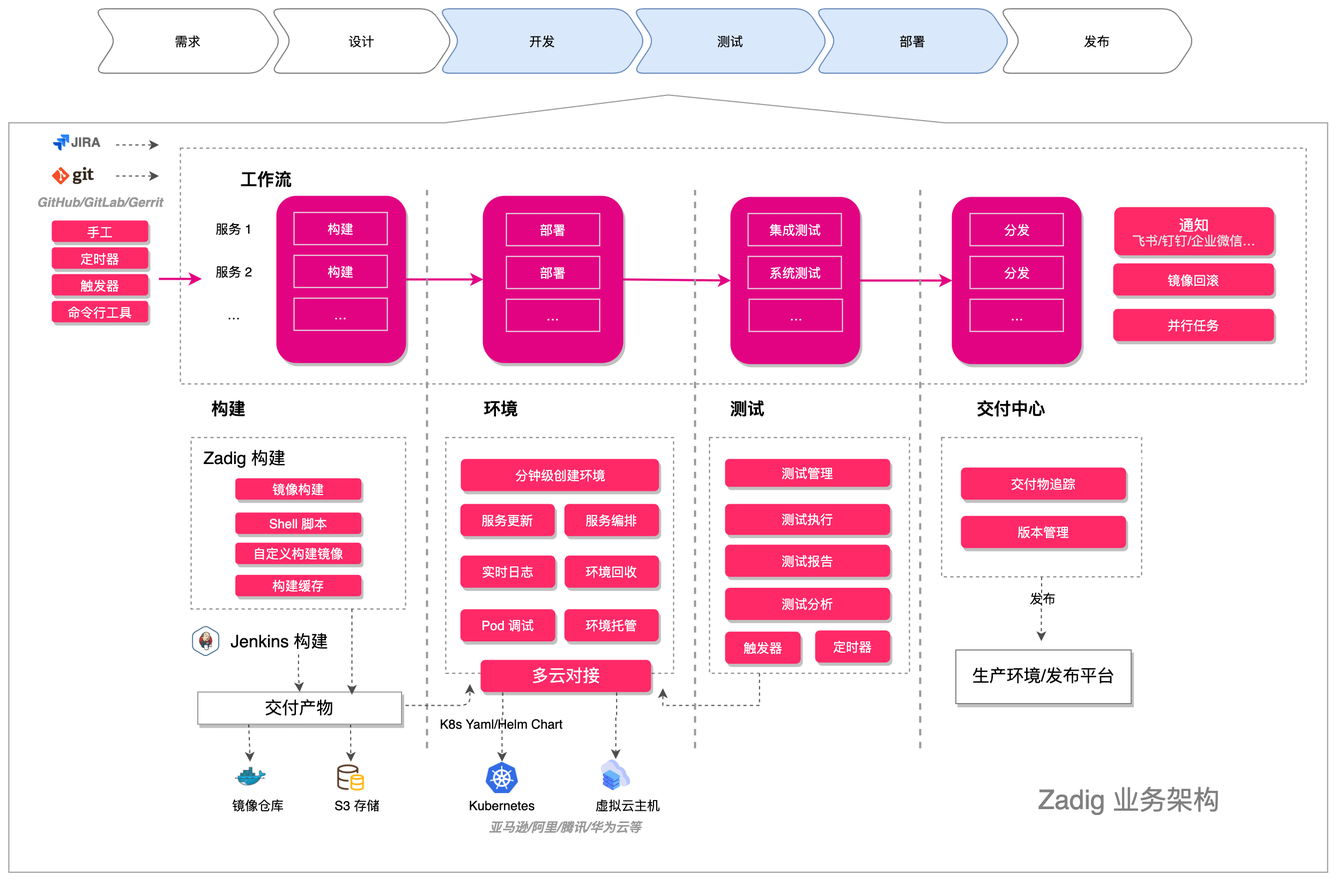
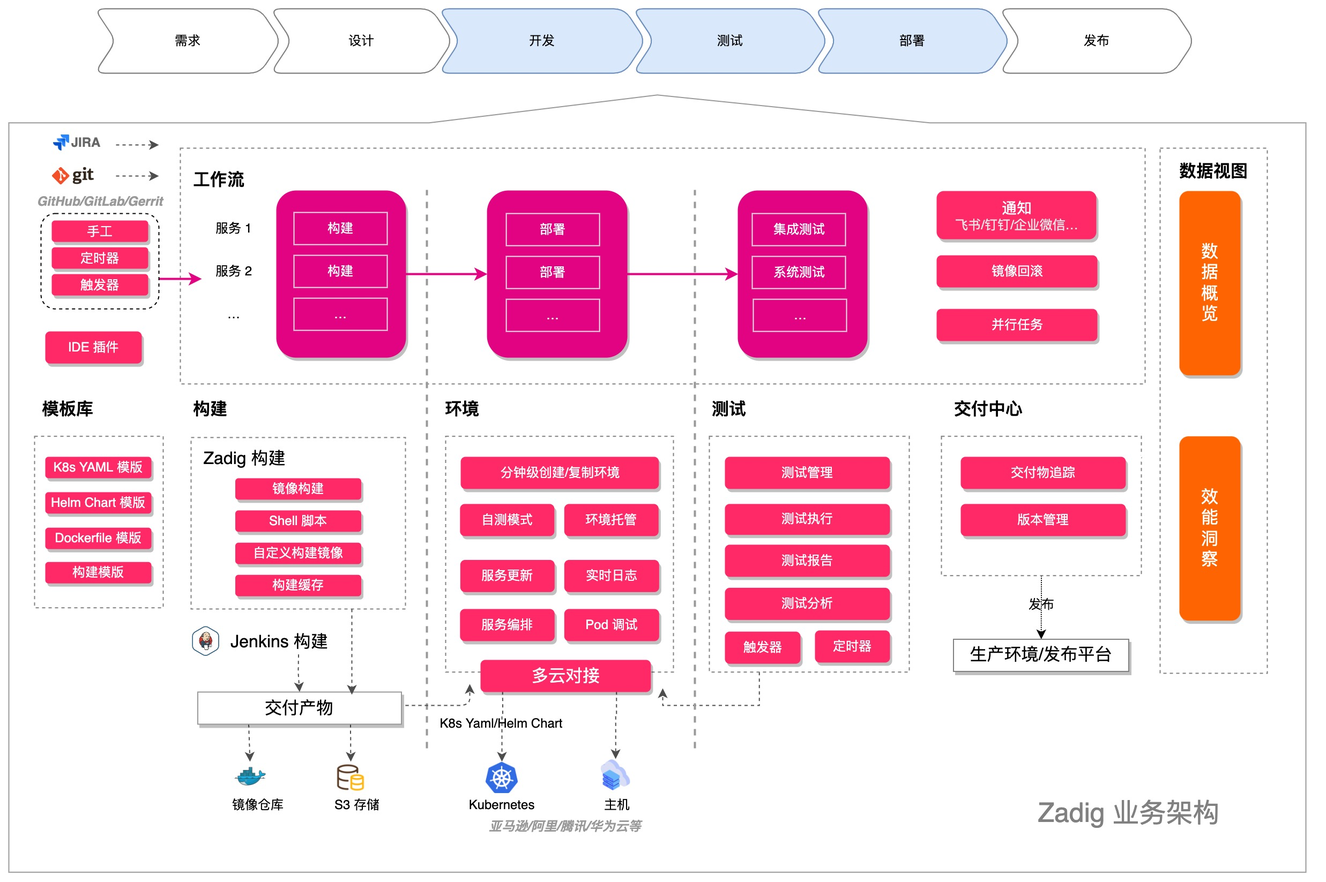
update Zadig product description & architecture image

diff --git a/v1.10.0/01.快速入门/00.introduction.md b/v1.10.0/01.快速入门/00.introduction.md
@@ -4,32 +4,35 @@ date: 2021-08-26 16:24:00
 permalink: /v1.10.0/quick-start/introduction/
 ---
 
-Zadig 是 KodeRover 公司基于 Kubernetes 自主设计、研发的开源分布式持续交付 (Continuous Delivery) 产品，为开发者提供云原生运行环境，支持开发者本地联调、微服务并行构建和部署、集成测试等。Zadig 内置了面向 Kubernetes、Helm、云主机/物理机、大体量微服务等复杂业务场景的最佳实践，为工程师一键生成自动化工作流 (workflow)。Zadig 不改变现有习惯和流程，几乎兼容所有软件架构，无缝集成 GitHub/GitLab、Jenkins、多家云厂商等，运维成本极低。[接入准备](/v1.10.0/quick-start/prepare/)
+Zadig 是 KodeRover 公司基于 Kubernetes 自主设计、研发的开源分布式持续交付 (Continuous Delivery) 产品，具备灵活易用的高并发工作流、面向开发者的云原生环境、高效协同的测试管理、强大免运维的模板库、客观精确的效能洞察等重要特性，为工程师提供统一的协作平面。Zadig 内置了 K8s YAML、Helm Chart、主机等复杂场景最佳实践，适用大规模微服务、高频高质量交付等场景。[接入准备](/v1.10.0/quick-start/prepare/)
 
 我们的目标是通过云原生技术的运用和工程产品赋能，打造极致、高效、愉悦的开发者工作体验，让工程师成为企业创新的核心引擎。
 
-## 业务架构介绍
+## 业务架构
 
 ![业务架构图](./_images/Zadig-Business-Architecture-zh.jpg)
 
 ## 核心能力
 
-- **高并发的工作流**
+- **灵活易用的高并发工作流**
 
-  系统经过简单配置，即可自动生成高并发工作流，高效执行构建、部署、测试等任务。这一设计解决了微服务架构下带来的多服务交付效率低下的问题。
+  简单配置，可自动生成高并发工作流，多个微服务可并行构建、并行部署、并行测试，大大提升代码验证效率。自定义的工作流步骤，配合人工审核，灵活且可控的保障业务交付质量。
 
-- **以服务为核心的环境**
+- **面向开发者的云原生环境**
 
-  只需一套服务配置，即可在几分钟创建多套数据隔离的测试环境，为开发者日常调试、集成测试验证、产品演示提供强力支撑。现有环境无需迁移，一键托管即可轻松浏览、调试环境中的所有服务。
+  分钟级创建或复制一套完整的隔离环境，应对频繁的业务变更和产品迭代。基于全量基准环境，快速为开发者提供一套独立的自测环境。一键托管集群资源即可轻松调试已有服务，验证业务代码。
 
+- **高效协同的测试管理**
 
-- **无侵入的自动化测试**
+  便捷对接 Jmeter、Pytest 等主流测试框架，跨项目管理和沉淀 UI、API、E2E 测试用例资产。通过工作流，向开发者提供前置测试验证能力。通过持续测试和质量分析，充分释放测试价值。
 
-  便捷对接已有的自动化测试框架，通过 GitHub/GitLab WebHook 自动构建、部署、测试。通过办公 IM 机器人为开发者提供第一时间质量反馈，有效实现“测试左移”，充分体现测试价值。
+- **强大免运维的模板库**
 
-- **开发本地联调 CLI**
+  跨项目共享 K8s YAML 模版、Helm Chart 模版，实现配置的统一化管理。基于一套模板可创建数百微服务，开发工程师少量配置可自助使用，大幅降低运维管理负担。
 
-  开发可以本地编辑代码，一键构建、部署到联调环境，无需处理复杂且繁琐的工作流程，省出宝贵时间去创造更多产品价值。
+- **客观精确的效能洞察**
+
+  全面了解系统运行状态，包括集群、项目、环境、工作流，关键过程通过率等数据概览。提供项目维度的构建、测试、部署等客观的效能度量数据，精准分析研发效能短板，促进稳步提升。
 
 ## 为谁服务
 

diff --git a/v1.11.0/01.快速入门/00.introduction.md b/v1.11.0/01.快速入门/00.introduction.md
@@ -4,32 +4,35 @@ date: 2021-08-26 16:24:00
 permalink: /v1.11.0/quick-start/introduction/
 ---
 
-Zadig 是 KodeRover 公司基于 Kubernetes 自主设计、研发的开源分布式持续交付 (Continuous Delivery) 产品，为开发者提供云原生运行环境，支持开发者本地联调、微服务并行构建和部署、集成测试等。Zadig 内置了面向 Kubernetes、Helm、云主机/物理机、大体量微服务等复杂业务场景的最佳实践，为工程师一键生成自动化工作流 (workflow)。Zadig 不改变现有习惯和流程，几乎兼容所有软件架构，无缝集成 GitHub/GitLab、Jenkins、多家云厂商等，运维成本极低。[接入准备](/v1.11.0/quick-start/prepare/)
+Zadig 是 KodeRover 公司基于 Kubernetes 自主设计、研发的开源分布式持续交付 (Continuous Delivery) 产品，具备灵活易用的高并发工作流、面向开发者的云原生环境、高效协同的测试管理、强大免运维的模板库、客观精确的效能洞察等重要特性，为工程师提供统一的协作平面。Zadig 内置了 K8s YAML、Helm Chart、主机等复杂场景最佳实践，适用大规模微服务、高频高质量交付等场景。[接入准备](/v1.11.0/quick-start/prepare/)
 
 我们的目标是通过云原生技术的运用和工程产品赋能，打造极致、高效、愉悦的开发者工作体验，让工程师成为企业创新的核心引擎。
 
-## 业务架构介绍
+## 业务架构
 
 ![业务架构图](./_images/Zadig-Business-Architecture-zh.jpg)
 
 ## 核心能力
 
-- **高并发的工作流**
+- **灵活易用的高并发工作流**
 
-  系统经过简单配置，即可自动生成高并发工作流，高效执行构建、部署、测试等任务。这一设计解决了微服务架构下带来的多服务交付效率低下的问题。
+  简单配置，可自动生成高并发工作流，多个微服务可并行构建、并行部署、并行测试，大大提升代码验证效率。自定义的工作流步骤，配合人工审核，灵活且可控的保障业务交付质量。
 
-- **以服务为核心的环境**
+- **面向开发者的云原生环境**
 
-  只需一套服务配置，即可在几分钟创建多套数据隔离的测试环境，为开发者日常调试、集成测试验证、产品演示提供强力支撑。现有环境无需迁移，一键托管即可轻松浏览、调试环境中的所有服务。
+  分钟级创建或复制一套完整的隔离环境，应对频繁的业务变更和产品迭代。基于全量基准环境，快速为开发者提供一套独立的自测环境。一键托管集群资源即可轻松调试已有服务，验证业务代码。
 
+- **高效协同的测试管理**
 
-- **无侵入的自动化测试**
+  便捷对接 Jmeter、Pytest 等主流测试框架，跨项目管理和沉淀 UI、API、E2E 测试用例资产。通过工作流，向开发者提供前置测试验证能力。通过持续测试和质量分析，充分释放测试价值。
 
-  便捷对接已有的自动化测试框架，通过 GitHub/GitLab WebHook 自动构建、部署、测试。通过办公 IM 机器人为开发者提供第一时间质量反馈，有效实现“测试左移”，充分体现测试价值。
+- **强大免运维的模板库**
 
-- **开发本地联调 CLI**
+  跨项目共享 K8s YAML 模版、Helm Chart 模版，实现配置的统一化管理。基于一套模板可创建数百微服务，开发工程师少量配置可自助使用，大幅降低运维管理负担。
 
-  开发可以本地编辑代码，一键构建、部署到联调环境，无需处理复杂且繁琐的工作流程，省出宝贵时间去创造更多产品价值。
+- **客观精确的效能洞察**
+
+  全面了解系统运行状态，包括集群、项目、环境、工作流，关键过程通过率等数据概览。提供项目维度的构建、测试、部署等客观的效能度量数据，精准分析研发效能短板，促进稳步提升。
 
 ## 为谁服务
 

diff --git a/v1.7.0/01.快速入门/00.introduction.md b/v1.7.0/01.快速入门/00.introduction.md
@@ -4,7 +4,7 @@ date: 2021-08-26 16:24:00
 permalink: /v1.7.0/quick-start/introduction/
 ---
 
-Zadig 是 KodeRover 公司基于 Kubernetes 自主设计、研发的开源分布式持续交付 (Continuous Delivery) 产品，为开发者提供云原生运行环境，支持开发者本地联调、微服务并行构建和部署、集成测试等。Zadig 内置了面向 Kubernetes、Helm、云主机/物理机、大体量微服务等复杂业务场景的最佳实践，为工程师一键生成自动化工作流 (workflow)。Zadig 不改变现有习惯和流程，几乎兼容所有软件架构，无缝集成 GitHub/GitLab、Jenkins、多家云厂商等，运维成本极低。[接入准备](/v1.7.0/quick-start/prepare/)
+Zadig 是 KodeRover 公司基于 Kubernetes 自主设计、研发的开源分布式持续交付 (Continuous Delivery) 产品，具备灵活易用的高并发工作流、面向开发者的云原生环境、高效协同的测试管理、强大免运维的模板库、客观精确的效能洞察等重要特性，为工程师提供统一的协作平面。Zadig 内置了 K8s YAML、Helm Chart、主机等复杂场景最佳实践，适用大规模微服务、高频高质量交付等场景。[接入准备](/v1.7.0/quick-start/prepare/)
 
 我们的目标是通过云原生技术的运用和工程产品赋能，打造极致、高效、愉悦的开发者工作体验，让工程师成为企业创新的核心引擎。
 
@@ -14,22 +14,25 @@ Zadig 是 KodeRover 公司基于 Kubernetes 自主设计、研发的开源分布
 
 ## 核心能力
 
-- **高并发的工作流**
+- **灵活易用的高并发工作流**
 
-  系统经过简单配置，即可自动生成高并发工作流，高效执行构建、部署、测试等任务。这一设计解决了微服务架构下带来的多服务交付效率低下的问题。
+  简单配置，可自动生成高并发工作流，多个微服务可并行构建、并行部署、并行测试，大大提升代码验证效率。自定义的工作流步骤，配合人工审核，灵活且可控的保障业务交付质量。
 
-- **以服务为核心的集成环境**
+- **面向开发者的云原生环境**
 
-  只需一套服务配置，即可在几分钟创建多套数据隔离的测试环境，为开发者日常调试、集成测试验证、产品演示提供强力支撑。现有环境无需迁移，一键托管即可轻松浏览、调试环境中的所有服务。
+  分钟级创建或复制一套完整的隔离环境，应对频繁的业务变更和产品迭代。基于全量基准环境，快速为开发者提供一套独立的自测环境。一键托管集群资源即可轻松调试已有服务，验证业务代码。
 
+- **高效协同的测试管理**
 
-- **无侵入的自动化测试**
+  便捷对接 Jmeter、Pytest 等主流测试框架，跨项目管理和沉淀 UI、API、E2E 测试用例资产。通过工作流，向开发者提供前置测试验证能力。通过持续测试和质量分析，充分释放测试价值。
 
-  便捷对接已有的自动化测试框架，通过 GitHub/GitLab WebHook 自动构建、部署、测试。通过办公 IM 机器人为开发者提供第一时间质量反馈，有效实现“测试左移”，充分体现测试价值。
+- **强大免运维的模板库**
 
-- **开发本地联调 CLI**
+  跨项目共享 K8s YAML 模版、Helm Chart 模版，实现配置的统一化管理。基于一套模板可创建数百微服务，开发工程师少量配置可自助使用，大幅降低运维管理负担。
 
-  开发可以本地编辑代码，一键构建、部署到联调环境，无需处理复杂且繁琐的工作流程，省出宝贵时间去创造更多产品价值。
+- **客观精确的效能洞察**
+
+  全面了解系统运行状态，包括集群、项目、环境、工作流，关键过程通过率等数据概览。提供项目维度的构建、测试、部署等客观的效能度量数据，精准分析研发效能短板，促进稳步提升。
 
 ## 为谁服务
 

diff --git a/v1.7.1/01.快速入门/00.introduction.md b/v1.7.1/01.快速入门/00.introduction.md
@@ -4,7 +4,7 @@ date: 2021-08-26 16:24:00
 permalink: /v1.7.1/quick-start/introduction/
 ---
 
-Zadig 是 KodeRover 公司基于 Kubernetes 自主设计、研发的开源分布式持续交付 (Continuous Delivery) 产品，为开发者提供云原生运行环境，支持开发者本地联调、微服务并行构建和部署、集成测试等。Zadig 内置了面向 Kubernetes、Helm、云主机/物理机、大体量微服务等复杂业务场景的最佳实践，为工程师一键生成自动化工作流 (workflow)。Zadig 不改变现有习惯和流程，几乎兼容所有软件架构，无缝集成 GitHub/GitLab、Jenkins、多家云厂商等，运维成本极低。[接入准备](/v1.7.1/quick-start/prepare/)
+Zadig 是 KodeRover 公司基于 Kubernetes 自主设计、研发的开源分布式持续交付 (Continuous Delivery) 产品，具备灵活易用的高并发工作流、面向开发者的云原生环境、高效协同的测试管理、强大免运维的模板库、客观精确的效能洞察等重要特性，为工程师提供统一的协作平面。Zadig 内置了 K8s YAML、Helm Chart、主机等复杂场景最佳实践，适用大规模微服务、高频高质量交付等场景。[接入准备](/v1.7.1/quick-start/prepare/)
 
 我们的目标是通过云原生技术的运用和工程产品赋能，打造极致、高效、愉悦的开发者工作体验，让工程师成为企业创新的核心引擎。
 
@@ -14,22 +14,25 @@ Zadig 是 KodeRover 公司基于 Kubernetes 自主设计、研发的开源分布
 
 ## 核心能力
 
-- **高并发的工作流**
+- **灵活易用的高并发工作流**
 
-  系统经过简单配置，即可自动生成高并发工作流，高效执行构建、部署、测试等任务。这一设计解决了微服务架构下带来的多服务交付效率低下的问题。
+  简单配置，可自动生成高并发工作流，多个微服务可并行构建、并行部署、并行测试，大大提升代码验证效率。自定义的工作流步骤，配合人工审核，灵活且可控的保障业务交付质量。
 
-- **以服务为核心的集成环境**
+- **面向开发者的云原生环境**
 
-  只需一套服务配置，即可在几分钟创建多套数据隔离的测试环境，为开发者日常调试、集成测试验证、产品演示提供强力支撑。现有环境无需迁移，一键托管即可轻松浏览、调试环境中的所有服务。
+  分钟级创建或复制一套完整的隔离环境，应对频繁的业务变更和产品迭代。基于全量基准环境，快速为开发者提供一套独立的自测环境。一键托管集群资源即可轻松调试已有服务，验证业务代码。
 
+- **高效协同的测试管理**
 
-- **无侵入的自动化测试**
+  便捷对接 Jmeter、Pytest 等主流测试框架，跨项目管理和沉淀 UI、API、E2E 测试用例资产。通过工作流，向开发者提供前置测试验证能力。通过持续测试和质量分析，充分释放测试价值。
 
-  便捷对接已有的自动化测试框架，通过 GitHub/GitLab WebHook 自动构建、部署、测试。通过办公 IM 机器人为开发者提供第一时间质量反馈，有效实现“测试左移”，充分体现测试价值。
+- **强大免运维的模板库**
 
-- **开发本地联调 CLI**
+  跨项目共享 K8s YAML 模版、Helm Chart 模版，实现配置的统一化管理。基于一套模板可创建数百微服务，开发工程师少量配置可自助使用，大幅降低运维管理负担。
 
-  开发可以本地编辑代码，一键构建、部署到联调环境，无需处理复杂且繁琐的工作流程，省出宝贵时间去创造更多产品价值。
+- **客观精确的效能洞察**
+
+  全面了解系统运行状态，包括集群、项目、环境、工作流，关键过程通过率等数据概览。提供项目维度的构建、测试、部署等客观的效能度量数据，精准分析研发效能短板，促进稳步提升。
 
 ## 为谁服务
 

diff --git a/v1.8.0/01.快速入门/00.introduction.md b/v1.8.0/01.快速入门/00.introduction.md
@@ -4,7 +4,7 @@ date: 2021-08-26 16:24:00
 permalink: /v1.8.0/quick-start/introduction/
 ---
 
-Zadig 是 KodeRover 公司基于 Kubernetes 自主设计、研发的开源分布式持续交付 (Continuous Delivery) 产品，为开发者提供云原生运行环境，支持开发者本地联调、微服务并行构建和部署、集成测试等。Zadig 内置了面向 Kubernetes、Helm、云主机/物理机、大体量微服务等复杂业务场景的最佳实践，为工程师一键生成自动化工作流 (workflow)。Zadig 不改变现有习惯和流程，几乎兼容所有软件架构，无缝集成 GitHub/GitLab、Jenkins、多家云厂商等，运维成本极低。[接入准备](/v1.8.0/quick-start/prepare/)
+Zadig 是 KodeRover 公司基于 Kubernetes 自主设计、研发的开源分布式持续交付 (Continuous Delivery) 产品，具备灵活易用的高并发工作流、面向开发者的云原生环境、高效协同的测试管理、强大免运维的模板库、客观精确的效能洞察等重要特性，为工程师提供统一的协作平面。Zadig 内置了 K8s YAML、Helm Chart、主机等复杂场景最佳实践，适用大规模微服务、高频高质量交付等场景。[接入准备](/v1.8.0/quick-start/prepare/)
 
 我们的目标是通过云原生技术的运用和工程产品赋能，打造极致、高效、愉悦的开发者工作体验，让工程师成为企业创新的核心引擎。
 
@@ -14,22 +14,25 @@ Zadig 是 KodeRover 公司基于 Kubernetes 自主设计、研发的开源分布
 
 ## 核心能力
 
-- **高并发的工作流**
+- **灵活易用的高并发工作流**
 
-  系统经过简单配置，即可自动生成高并发工作流，高效执行构建、部署、测试等任务。这一设计解决了微服务架构下带来的多服务交付效率低下的问题。
+  简单配置，可自动生成高并发工作流，多个微服务可并行构建、并行部署、并行测试，大大提升代码验证效率。自定义的工作流步骤，配合人工审核，灵活且可控的保障业务交付质量。
 
-- **以服务为核心的集成环境**
+- **面向开发者的云原生环境**
 
-  只需一套服务配置，即可在几分钟创建多套数据隔离的测试环境，为开发者日常调试、集成测试验证、产品演示提供强力支撑。现有环境无需迁移，一键托管即可轻松浏览、调试环境中的所有服务。
+  分钟级创建或复制一套完整的隔离环境，应对频繁的业务变更和产品迭代。基于全量基准环境，快速为开发者提供一套独立的自测环境。一键托管集群资源即可轻松调试已有服务，验证业务代码。
 
+- **高效协同的测试管理**
 
-- **无侵入的自动化测试**
+  便捷对接 Jmeter、Pytest 等主流测试框架，跨项目管理和沉淀 UI、API、E2E 测试用例资产。通过工作流，向开发者提供前置测试验证能力。通过持续测试和质量分析，充分释放测试价值。
 
-  便捷对接已有的自动化测试框架，通过 GitHub/GitLab WebHook 自动构建、部署、测试。通过办公 IM 机器人为开发者提供第一时间质量反馈，有效实现“测试左移”，充分体现测试价值。
+- **强大免运维的模板库**
 
-- **开发本地联调 CLI**
+  跨项目共享 K8s YAML 模版、Helm Chart 模版，实现配置的统一化管理。基于一套模板可创建数百微服务，开发工程师少量配置可自助使用，大幅降低运维管理负担。
 
-  开发可以本地编辑代码，一键构建、部署到联调环境，无需处理复杂且繁琐的工作流程，省出宝贵时间去创造更多产品价值。
+- **客观精确的效能洞察**
+
+  全面了解系统运行状态，包括集群、项目、环境、工作流，关键过程通过率等数据概览。提供项目维度的构建、测试、部署等客观的效能度量数据，精准分析研发效能短板，促进稳步提升。
 
 ## 为谁服务
 

diff --git a/v1.9.0/01.快速入门/00.introduction.md b/v1.9.0/01.快速入门/00.introduction.md
@@ -4,7 +4,7 @@ date: 2021-08-26 16:24:00
 permalink: /v1.9.0/quick-start/introduction/
 ---
 
-Zadig 是 KodeRover 公司基于 Kubernetes 自主设计、研发的开源分布式持续交付 (Continuous Delivery) 产品，为开发者提供云原生运行环境，支持开发者本地联调、微服务并行构建和部署、集成测试等。Zadig 内置了面向 Kubernetes、Helm、云主机/物理机、大体量微服务等复杂业务场景的最佳实践，为工程师一键生成自动化工作流 (workflow)。Zadig 不改变现有习惯和流程，几乎兼容所有软件架构，无缝集成 GitHub/GitLab、Jenkins、多家云厂商等，运维成本极低。[接入准备](/v1.9.0/quick-start/prepare/)
+Zadig 是 KodeRover 公司基于 Kubernetes 自主设计、研发的开源分布式持续交付 (Continuous Delivery) 产品，具备灵活易用的高并发工作流、面向开发者的云原生环境、高效协同的测试管理、强大免运维的模板库、客观精确的效能洞察等重要特性，为工程师提供统一的协作平面。Zadig 内置了 K8s YAML、Helm Chart、主机等复杂场景最佳实践，适用大规模微服务、高频高质量交付等场景。[接入准备](/v1.9.0/quick-start/prepare/)
 
 我们的目标是通过云原生技术的运用和工程产品赋能，打造极致、高效、愉悦的开发者工作体验，让工程师成为企业创新的核心引擎。
 
@@ -14,22 +14,25 @@ Zadig 是 KodeRover 公司基于 Kubernetes 自主设计、研发的开源分布
 
 ## 核心能力
 
-- **高并发的工作流**
+- **灵活易用的高并发工作流**
 
-  系统经过简单配置，即可自动生成高并发工作流，高效执行构建、部署、测试等任务。这一设计解决了微服务架构下带来的多服务交付效率低下的问题。
+  简单配置，可自动生成高并发工作流，多个微服务可并行构建、并行部署、并行测试，大大提升代码验证效率。自定义的工作流步骤，配合人工审核，灵活且可控的保障业务交付质量。
 
-- **以服务为核心的集成环境**
+- **面向开发者的云原生环境**
 
-  只需一套服务配置，即可在几分钟创建多套数据隔离的测试环境，为开发者日常调试、集成测试验证、产品演示提供强力支撑。现有环境无需迁移，一键托管即可轻松浏览、调试环境中的所有服务。
+  分钟级创建或复制一套完整的隔离环境，应对频繁的业务变更和产品迭代。基于全量基准环境，快速为开发者提供一套独立的自测环境。一键托管集群资源即可轻松调试已有服务，验证业务代码。
 
+- **高效协同的测试管理**
 
-- **无侵入的自动化测试**
+  便捷对接 Jmeter、Pytest 等主流测试框架，跨项目管理和沉淀 UI、API、E2E 测试用例资产。通过工作流，向开发者提供前置测试验证能力。通过持续测试和质量分析，充分释放测试价值。
 
-  便捷对接已有的自动化测试框架，通过 GitHub/GitLab WebHook 自动构建、部署、测试。通过办公 IM 机器人为开发者提供第一时间质量反馈，有效实现“测试左移”，充分体现测试价值。
+- **强大免运维的模板库**
 
-- **开发本地联调 CLI**
+  跨项目共享 K8s YAML 模版、Helm Chart 模版，实现配置的统一化管理。基于一套模板可创建数百微服务，开发工程师少量配置可自助使用，大幅降低运维管理负担。
 
-  开发可以本地编辑代码，一键构建、部署到联调环境，无需处理复杂且繁琐的工作流程，省出宝贵时间去创造更多产品价值。
+- **客观精确的效能洞察**
+
+  全面了解系统运行状态，包括集群、项目、环境、工作流，关键过程通过率等数据概览。提供项目维度的构建、测试、部署等客观的效能度量数据，精准分析研发效能短板，促进稳步提升。
 
 ## 为谁服务
 

diff --git a/v1.6.0/01.快速入门/00.introduction.md b/v1.6.0/01.快速入门/00.introduction.md
@@ -4,7 +4,7 @@ date: 2021-08-26 16:24:00
 permalink: /v1.6.0/quick-start/introduction/
 ---
 
-Zadig 是 KodeRover 公司基于 Kubernetes 自主设计、研发的开源分布式持续交付 (Continuous Delivery) 产品，为开发者提供云原生运行环境，支持开发者本地联调、微服务并行构建和部署、集成测试等。Zadig 内置了面向 Kubernetes、Helm、云主机/物理机、大体量微服务等复杂业务场景的最佳实践，为工程师一键生成自动化工作流 (workflow)。Zadig 不改变现有习惯和流程，几乎兼容所有软件架构，无缝集成 GitHub/GitLab、Jenkins、多家云厂商等，运维成本极低。[接入准备](/v1.6.0/quick-start/prepare/)
+Zadig 是 KodeRover 公司基于 Kubernetes 自主设计、研发的开源分布式持续交付 (Continuous Delivery) 产品，具备灵活易用的高并发工作流、面向开发者的云原生环境、高效协同的测试管理、强大免运维的模板库、客观精确的效能洞察以及云原生 IDE 插件等重要特性，为工程师提供统一的协作平面。Zadig 内置了 K8s YAML、Helm Chart、主机等复杂场景最佳实践，适用大规模微服务、高频高质量交付等场景。[接入准备](/v1.6.0/quick-start/prepare/)
 
 我们的目标是通过云原生技术的运用和工程产品赋能，打造极致、高效、愉悦的开发者工作体验，让工程师成为企业创新的核心引擎。
 
@@ -14,22 +14,22 @@ Zadig 是 KodeRover 公司基于 Kubernetes 自主设计、研发的开源分布
 
 ## 核心能力
 
-- **高并发的工作流**
+- **灵活易用的高并发工作流**
 
-  系统经过简单配置，即可自动生成高并发工作流，高效执行构建、部署、测试等任务。这一设计解决了微服务架构下带来的多服务交付效率低下的问题。
+  简单配置，可自动生成高并发工作流，多个微服务可并行构建、并行部署、并行测试，大大提升代码验证效率。自定义的工作流步骤，配合人工审核，灵活且可控的保障业务交付质量。
 
 - **以服务为核心的集成环境**
 
-  只需一套服务配置，即可在几分钟创建多套数据隔离的测试环境，为开发者日常调试、集成测试验证、产品演示提供强力支撑。现有环境无需迁移，一键托管即可轻松浏览、调试环境中的所有服务。
+  分钟级创建或复制一套完整的隔离环境，应对频繁的业务变更和产品迭代。基于全量基准环境，快速为开发者提供一套独立的自测环境。一键托管集群资源即可轻松调试已有服务，验证业务代码。
 
 
-- **无侵入的自动化测试**
+- **高效协同的测试管理**
 
-  便捷对接已有的自动化测试框架，通过 GitHub/GitLab WebHook 自动构建、部署、测试。通过办公 IM 机器人为开发者提供第一时间质量反馈，有效实现“测试左移”，充分体现测试价值。
+  便捷对接 Jmeter、Pytest 等主流测试框架，跨项目管理和沉淀 UI、API、E2E 测试用例资产。通过工作流，向开发者提供前置测试验证能力。通过持续测试和质量分析，充分释放测试价值。
 
-- **开发本地联调 CLI**
+- **云原生 IDE 插件**
 
-  开发可以本地编辑代码，一键构建、部署到联调环境，无需处理复杂且繁琐的工作流程，省出宝贵时间去创造更多产品价值。
+  开发者无需平台切换，在 VScode IDE 中即可获得 Zadig 产品核心能力。编写代码后，无需打包镜像，即可一键热部署到自测环境，快速完成自测、联调和集成验证，开发效率倍增。
 
 ## 为谁服务
 
